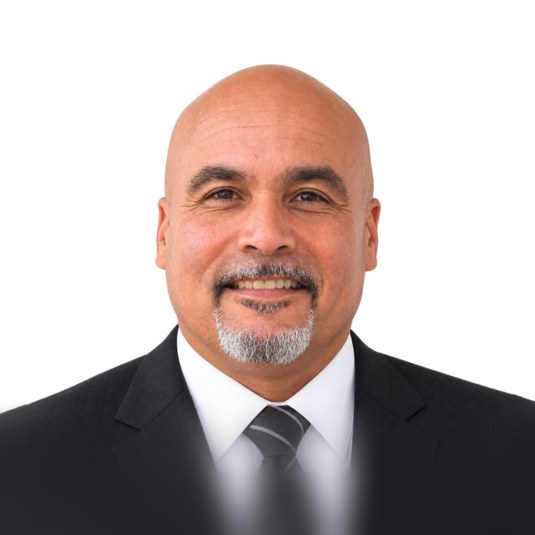
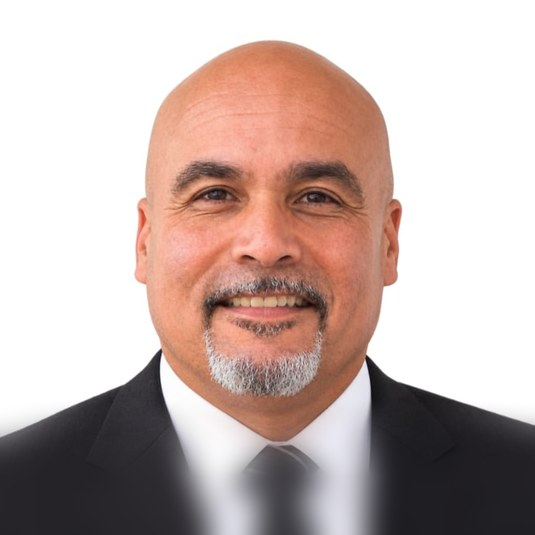
About: zoom in Ismael Adorno photo to match pastors
Claude-Session: https://claude.ai/code/session_01YXHXMRuwfuFx1RTxhNLRGp

Changed region(s): [[0.0, 0.0598, 1.0, 1.0], [0.5084, 0.1794, 0.5682, 0.2093]]

diff --git a/about.html b/about.html
@@ -141,7 +141,7 @@ a{color:#2F4858}a:hover{color:#1E3240}
     <div style="display: grid; grid-template-columns: repeat(auto-fit, minmax(260px, 1fr)); gap: 24px">
             <div style="display: flex; flex-direction: column; gap: 10px"><img src="assets/pastor-tricia.jpg" alt="Pastor Tricia Persram" width="535" height="535" loading="lazy" style="width: 100%; height: auto; aspect-ratio: 1 / 1; object-fit: cover; border-radius: 14px; display: block"><span style="font-family: 'Libre Baskerville', serif; font-size: 20px; font-weight: 700">Tricia Persram</span><span style="font-size: 16px; color: #4F6676">Family Care Pastor</span><span style="font-size: 15px; line-height: 1.5; color: #3B5566">Oversees Children, Youth &amp; Next Generation and Care &amp; Compassion</span></div>
       <div style="display: flex; flex-direction: column; gap: 10px"><img src="assets/pastor-dan.jpg" alt="Pastor Dan Nuñez" width="535" height="535" loading="lazy" style="width: 100%; height: auto; aspect-ratio: 1 / 1; object-fit: cover; border-radius: 14px; display: block"><span style="font-family: 'Libre Baskerville', serif; font-size: 20px; font-weight: 700">Dan Nuñez</span><span style="font-size: 16px; color: #4F6676">Connection Pastor</span><span style="font-size: 15px; line-height: 1.5; color: #3B5566">Oversees Fellowship, Evangelism &amp; Missions and Community Transformation</span></div>
-      <div style="display: flex; flex-direction: column; gap: 10px"><img src="assets/admin-ismael.jpg" alt="Ismael Adorno, Church Administrator" width="535" height="535" loading="lazy" style="width: 100%; height: auto; aspect-ratio: 1 / 1; object-fit: cover; border-radius: 14px; display: block"><span style="font-family: 'Libre Baskerville', serif; font-size: 20px; font-weight: 700">Ismael Adorno</span><span style="font-size: 16px; color: #4F6676">Church Administrator</span><span style="font-size: 15px; line-height: 1.5; color: #3B5566">Supports our pastors and the church family through church operations and administration</span></div>
+      <div style="display: flex; flex-direction: column; gap: 10px"><img src="assets/admin-ismael.jpg?v=2" alt="Ismael Adorno, Church Administrator" width="535" height="535" loading="lazy" style="width: 100%; height: auto; aspect-ratio: 1 / 1; object-fit: cover; border-radius: 14px; display: block"><span style="font-family: 'Libre Baskerville', serif; font-size: 20px; font-weight: 700">Ismael Adorno</span><span style="font-size: 16px; color: #4F6676">Church Administrator</span><span style="font-size: 15px; line-height: 1.5; color: #3B5566">Supports our pastors and the church family through church operations and administration</span></div>
     </div>
   </section>
 
